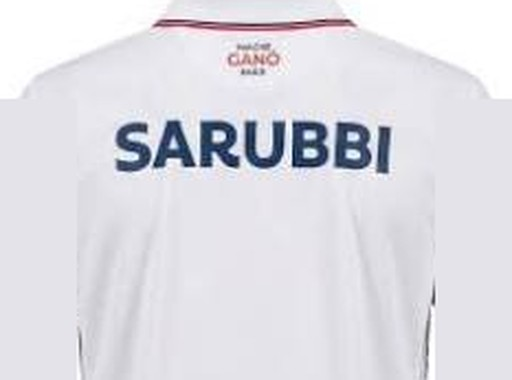
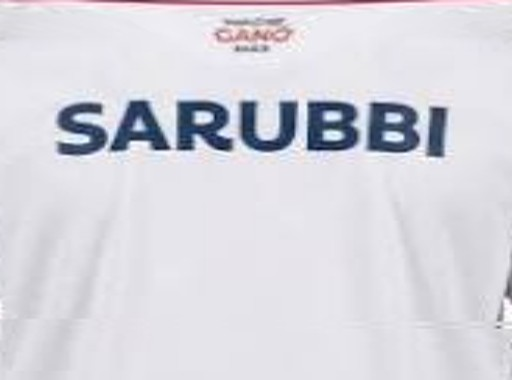
Ottati: la remera llena todo el torso, sin puntas con fondo
Claude-Session: https://claude.ai/code/session_017Naghp5zRz9zM9bG8a4dHp

diff --git a/herramientas/ottati.py b/herramientas/ottati.py
@@ -29,14 +29,19 @@ def tela(w, h):
     return Image.fromarray(base.clip(0, 255).astype(np.uint8))
 
 tela(256, 256).save('assets/ropa/ottati_tela.jpg', quality=90)
-# Como las otras remeras (512x380): del cuello hasta abajo del logo, de lado a lado del pecho.
-# Lo que asoma de las mangas (el logo de Turil y las rayitas) se tapa con tela blanca.
+# Como las otras remeras (512x380), pero sin puntas vacías: fila por fila, el ancho de la remera
+# (sin las mangas, que van en los brazos) se estira de borde a borde, así no queda fondo en las
+# esquinas de los hombros.
 for lado_remera, nombre in (('frente', 'frente'), ('atras', 'espalda')):
-    foto = Image.open(f'assets/especiales/remeraottati{lado_remera}.jpeg').convert('RGB')
-    pecho = foto.crop((108, 62, 341, 235))
-    d = ImageDraw.Draw(pecho)
-    for x0, x1 in ((0, 34), (198, 233)):
-        d.rectangle((x0, 45, x1, 173), fill=pecho.getpixel((116, 150)))
+    foto = np.asarray(Image.open(f'assets/especiales/remeraottati{lado_remera}.jpeg').convert('RGB'), np.float32)
+    filas = []
+    for y in range(74, 236):
+        tela_fila = np.where(foto[y].min(axis=1) < 236)[0]
+        izq = max(tela_fila.min() + 3, 142)
+        der = min(tela_fila.max() - 3, 306)
+        xs = np.linspace(izq, der, 512)
+        filas.append(np.stack([np.interp(xs, np.arange(foto.shape[1]), foto[y, :, c]) for c in range(3)], axis=1))
+    pecho = Image.fromarray(np.stack(filas).clip(0, 255).astype(np.uint8))
     pecho.resize((512, 380), Image.LANCZOS).save(f'assets/ropa/ottati_{nombre}.jpg', quality=90)
 # Manga: el pedazo de la manga derecha de la foto (con el logo y las rayitas del puño).
 foto = Image.open('assets/especiales/remeraottatifrente.jpeg').convert('RGB')
